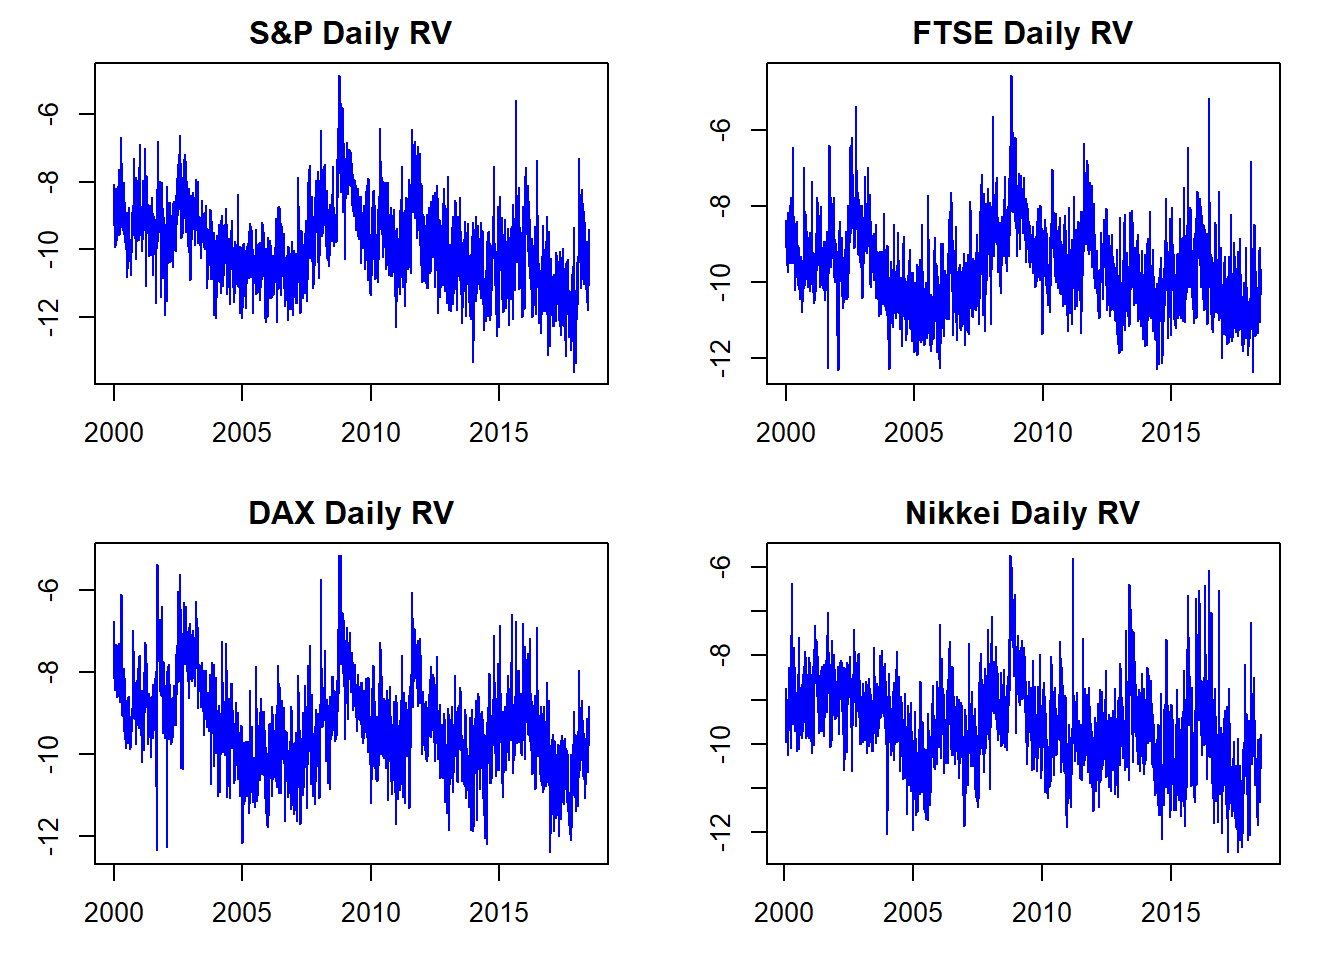
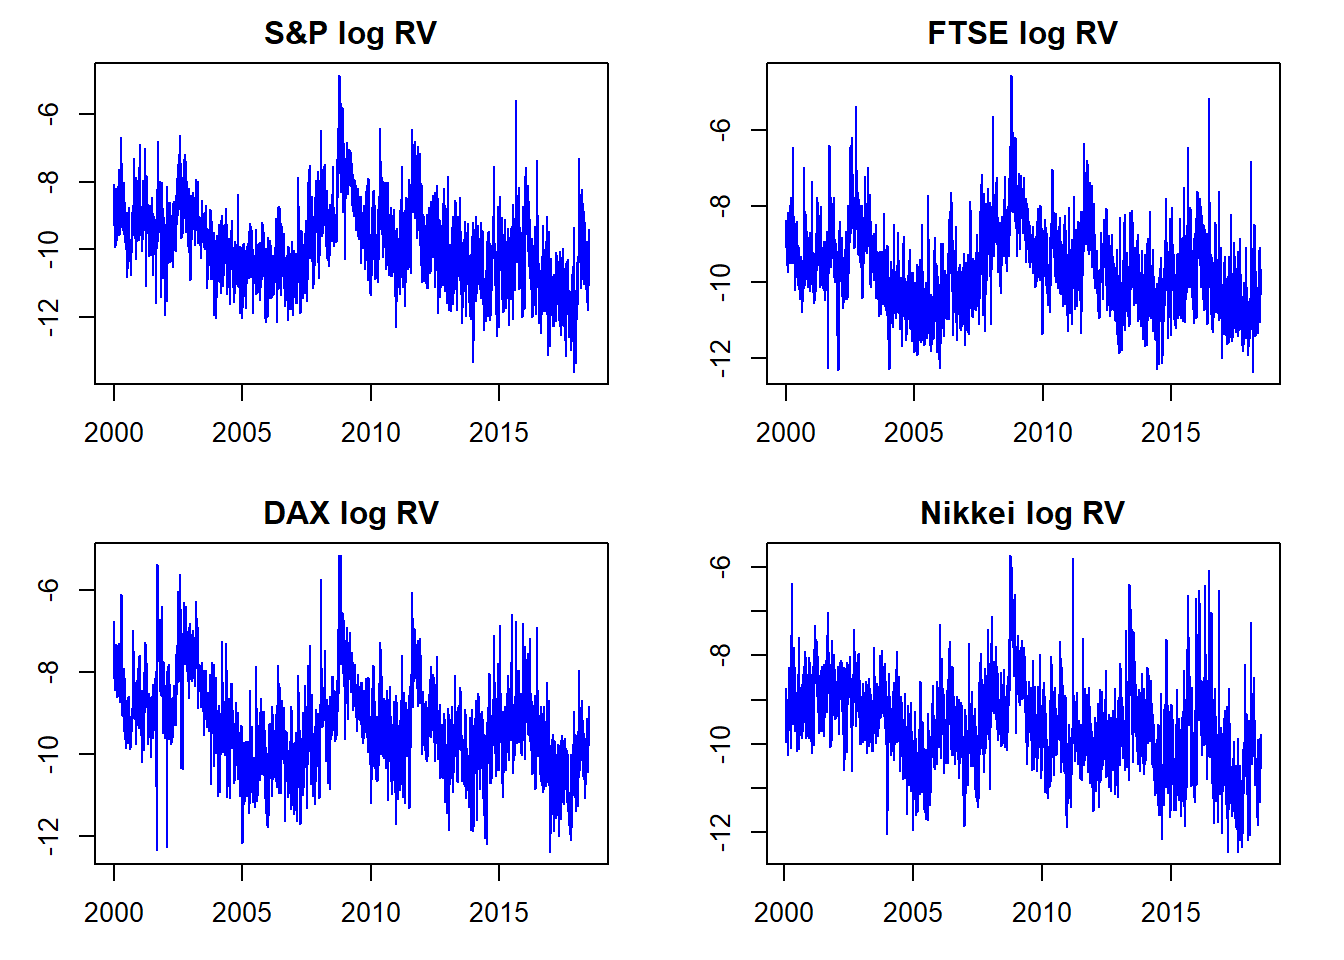
docs - research proposal submission commit

diff --git a/docs/index.html b/docs/index.html
@@ -93,7 +93,6 @@ ul.task-list li input[type="checkbox"] {
   <li><a href="#objective-and-motivation" id="toc-objective-and-motivation" class="nav-link" data-scroll-target="#objective-and-motivation">Objective and Motivation</a></li>
   <li><a href="#data" id="toc-data" class="nav-link" data-scroll-target="#data">Data</a></li>
   <li><a href="#the-model" id="toc-the-model" class="nav-link" data-scroll-target="#the-model">The Model</a></li>
-  <li><a href="#references" id="toc-references" class="nav-link" data-scroll-target="#references">References</a></li>
   </ul></li>
   </ul>
 </nav>
@@ -176,15 +175,13 @@ rv_t &amp;= \mu_0 + A_1 rv_{t-1} + \dots + A_p rv_{t-p} + \epsilon_t\\
 \epsilon_t | RV_{t-1} &amp;\sim iidN_N(0_N, \Sigma)
 \end{align}\]</span>
 <p>Where <span class="math inline">\(rv_t\)</span> is a vector of log transformed realised variances for our <span class="math inline">\(N=10\)</span> stock indices on day <span class="math inline">\(t\)</span>. The <span class="math inline">\(A_i\)</span> matrices are <span class="math inline">\(N\times N\)</span> matrices of the autoregressive slope parameters.</p>
-<p>The error term vector <span class="math inline">\(\epsilon_t\)</span> given the data up to <span class="math inline">\(t-1\)</span> is assumed to be multivariate normally distributed of dimension <span class="math inline">\(N=10\)</span>, with mean <span class="math inline">\(0_N\)</span> and covariance matrix <span class="math inline">\(\Sigma\)</span>.</p>
-<p>Bayesian estimation techniques will be then utilised in conjunction with suitably chosen priors in order to compute 1 day ahead RV forecasts across all indices. The accuracy of the forecasts will then be assessed according to their root mean squared errors <strong>RMSE</strong> given by:</p>
+<p>The error term vector <span class="math inline">\(\epsilon_t\)</span> given the data up to <span class="math inline">\(t-1\)</span> is assumed to be iid multivariate normally distributed of dimension <span class="math inline">\(N=10\)</span>, with mean <span class="math inline">\(0_N\)</span> and covariance matrix <span class="math inline">\(\Sigma\)</span>.</p>
+<p>Bayesian estimation techniques will be then utilised in conjunction with a number of suitably chosen prior specifications in order to estimate competing models and compute 1 day ahead RV forecasts across all indices. The predictions will be made out of sample and the accuracy of the forecasts will then be assessed according to their root mean squared errors <strong>RMSE</strong>, given by:</p>
 <span class="math display">\[\begin{align}
 RMSE = \sqrt{\sum(\hat{rv_i} - rv_i )^2/n}
 \end{align}\]</span>
-<p>Comparison of prediction accuracy via the RMSEs will facilitate comparison of various different model specifications, such as the incorporation of different prior distributions and differing assumptions about the parameters of those distributions.</p>
-</section>
-<section id="references" class="level2 unnumbered">
-<h2 class="unnumbered anchored" data-anchor-id="references">References</h2>
+<p>Assessment of prediction accuracy via the RMSEs will facilitate comparison of various different model specifications, such as the incorporation of different prior distributions and differing assumptions about the parameters of those distributions.</p>
+<p>The significance of being able to reliably forecast market volatility is primarily seen in the context of financial asset pricing. Volatility of the underlying asset is one of the crucial inputs required in options pricing. With reliable forecasts of stock index volatility one can assess the degree to which options quoted in the market are under or over estimating volatility relative to what is indicated by the historical realised dynamics.</p>
 
 
 </section>
